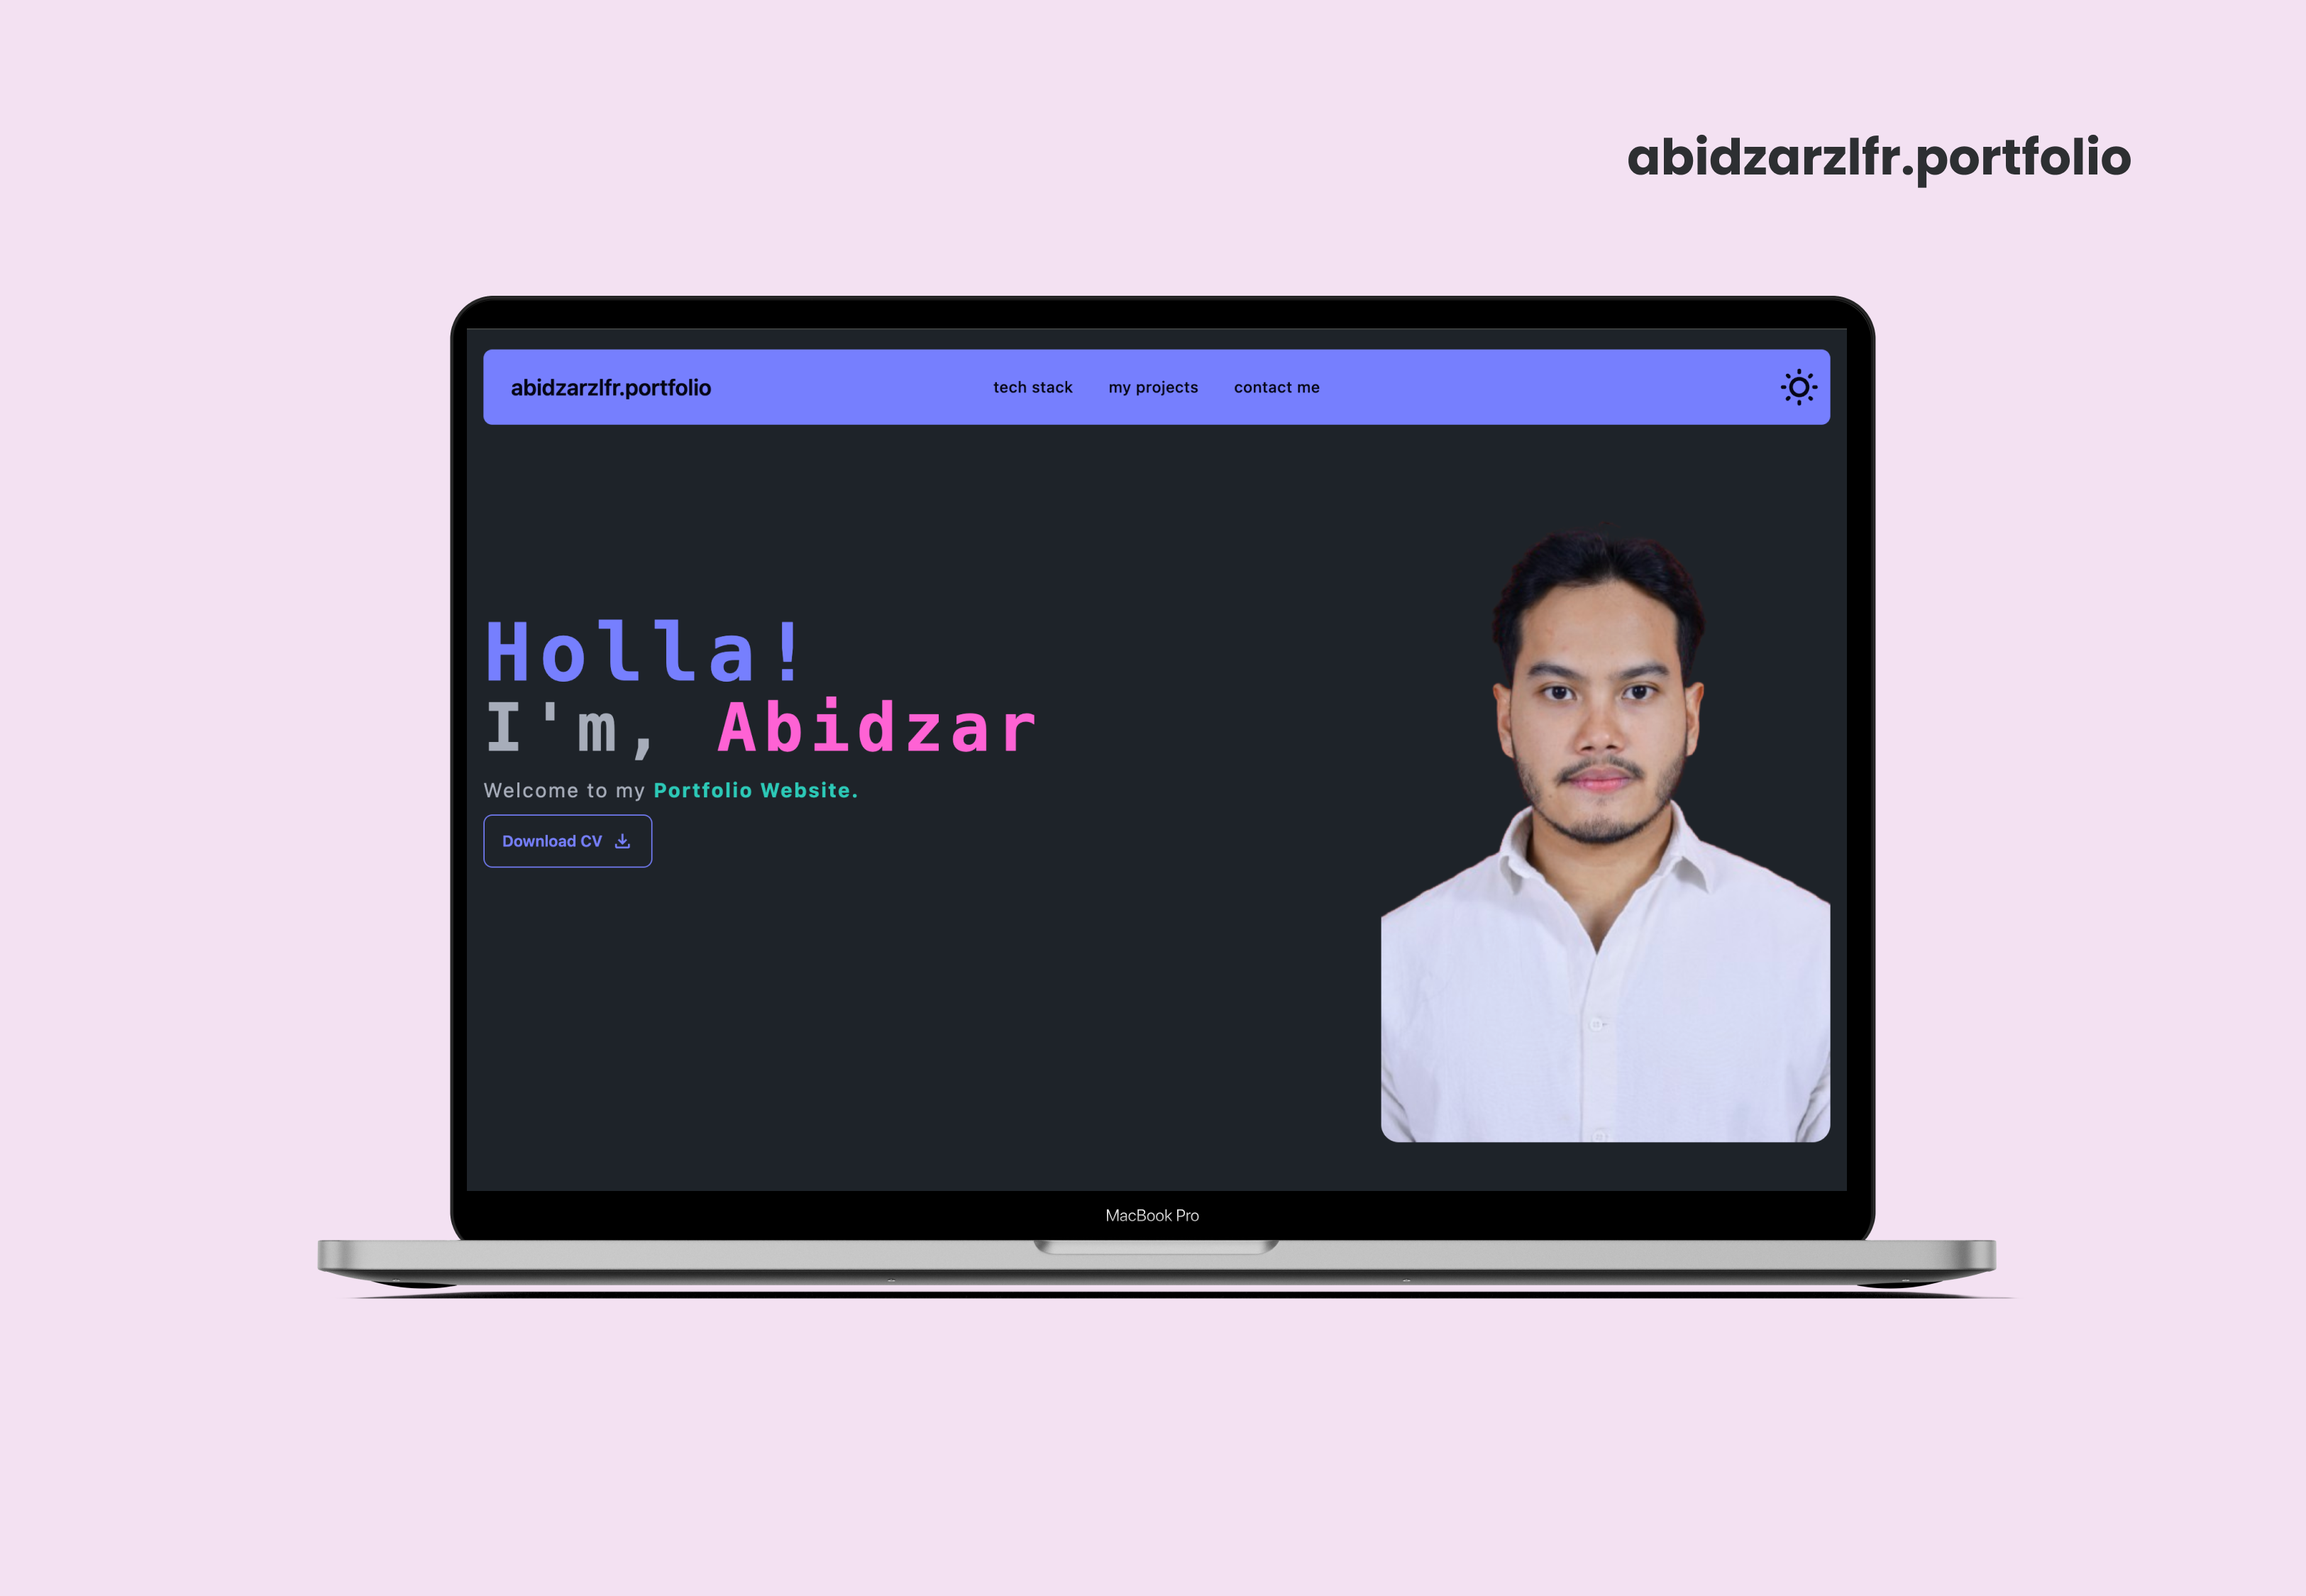
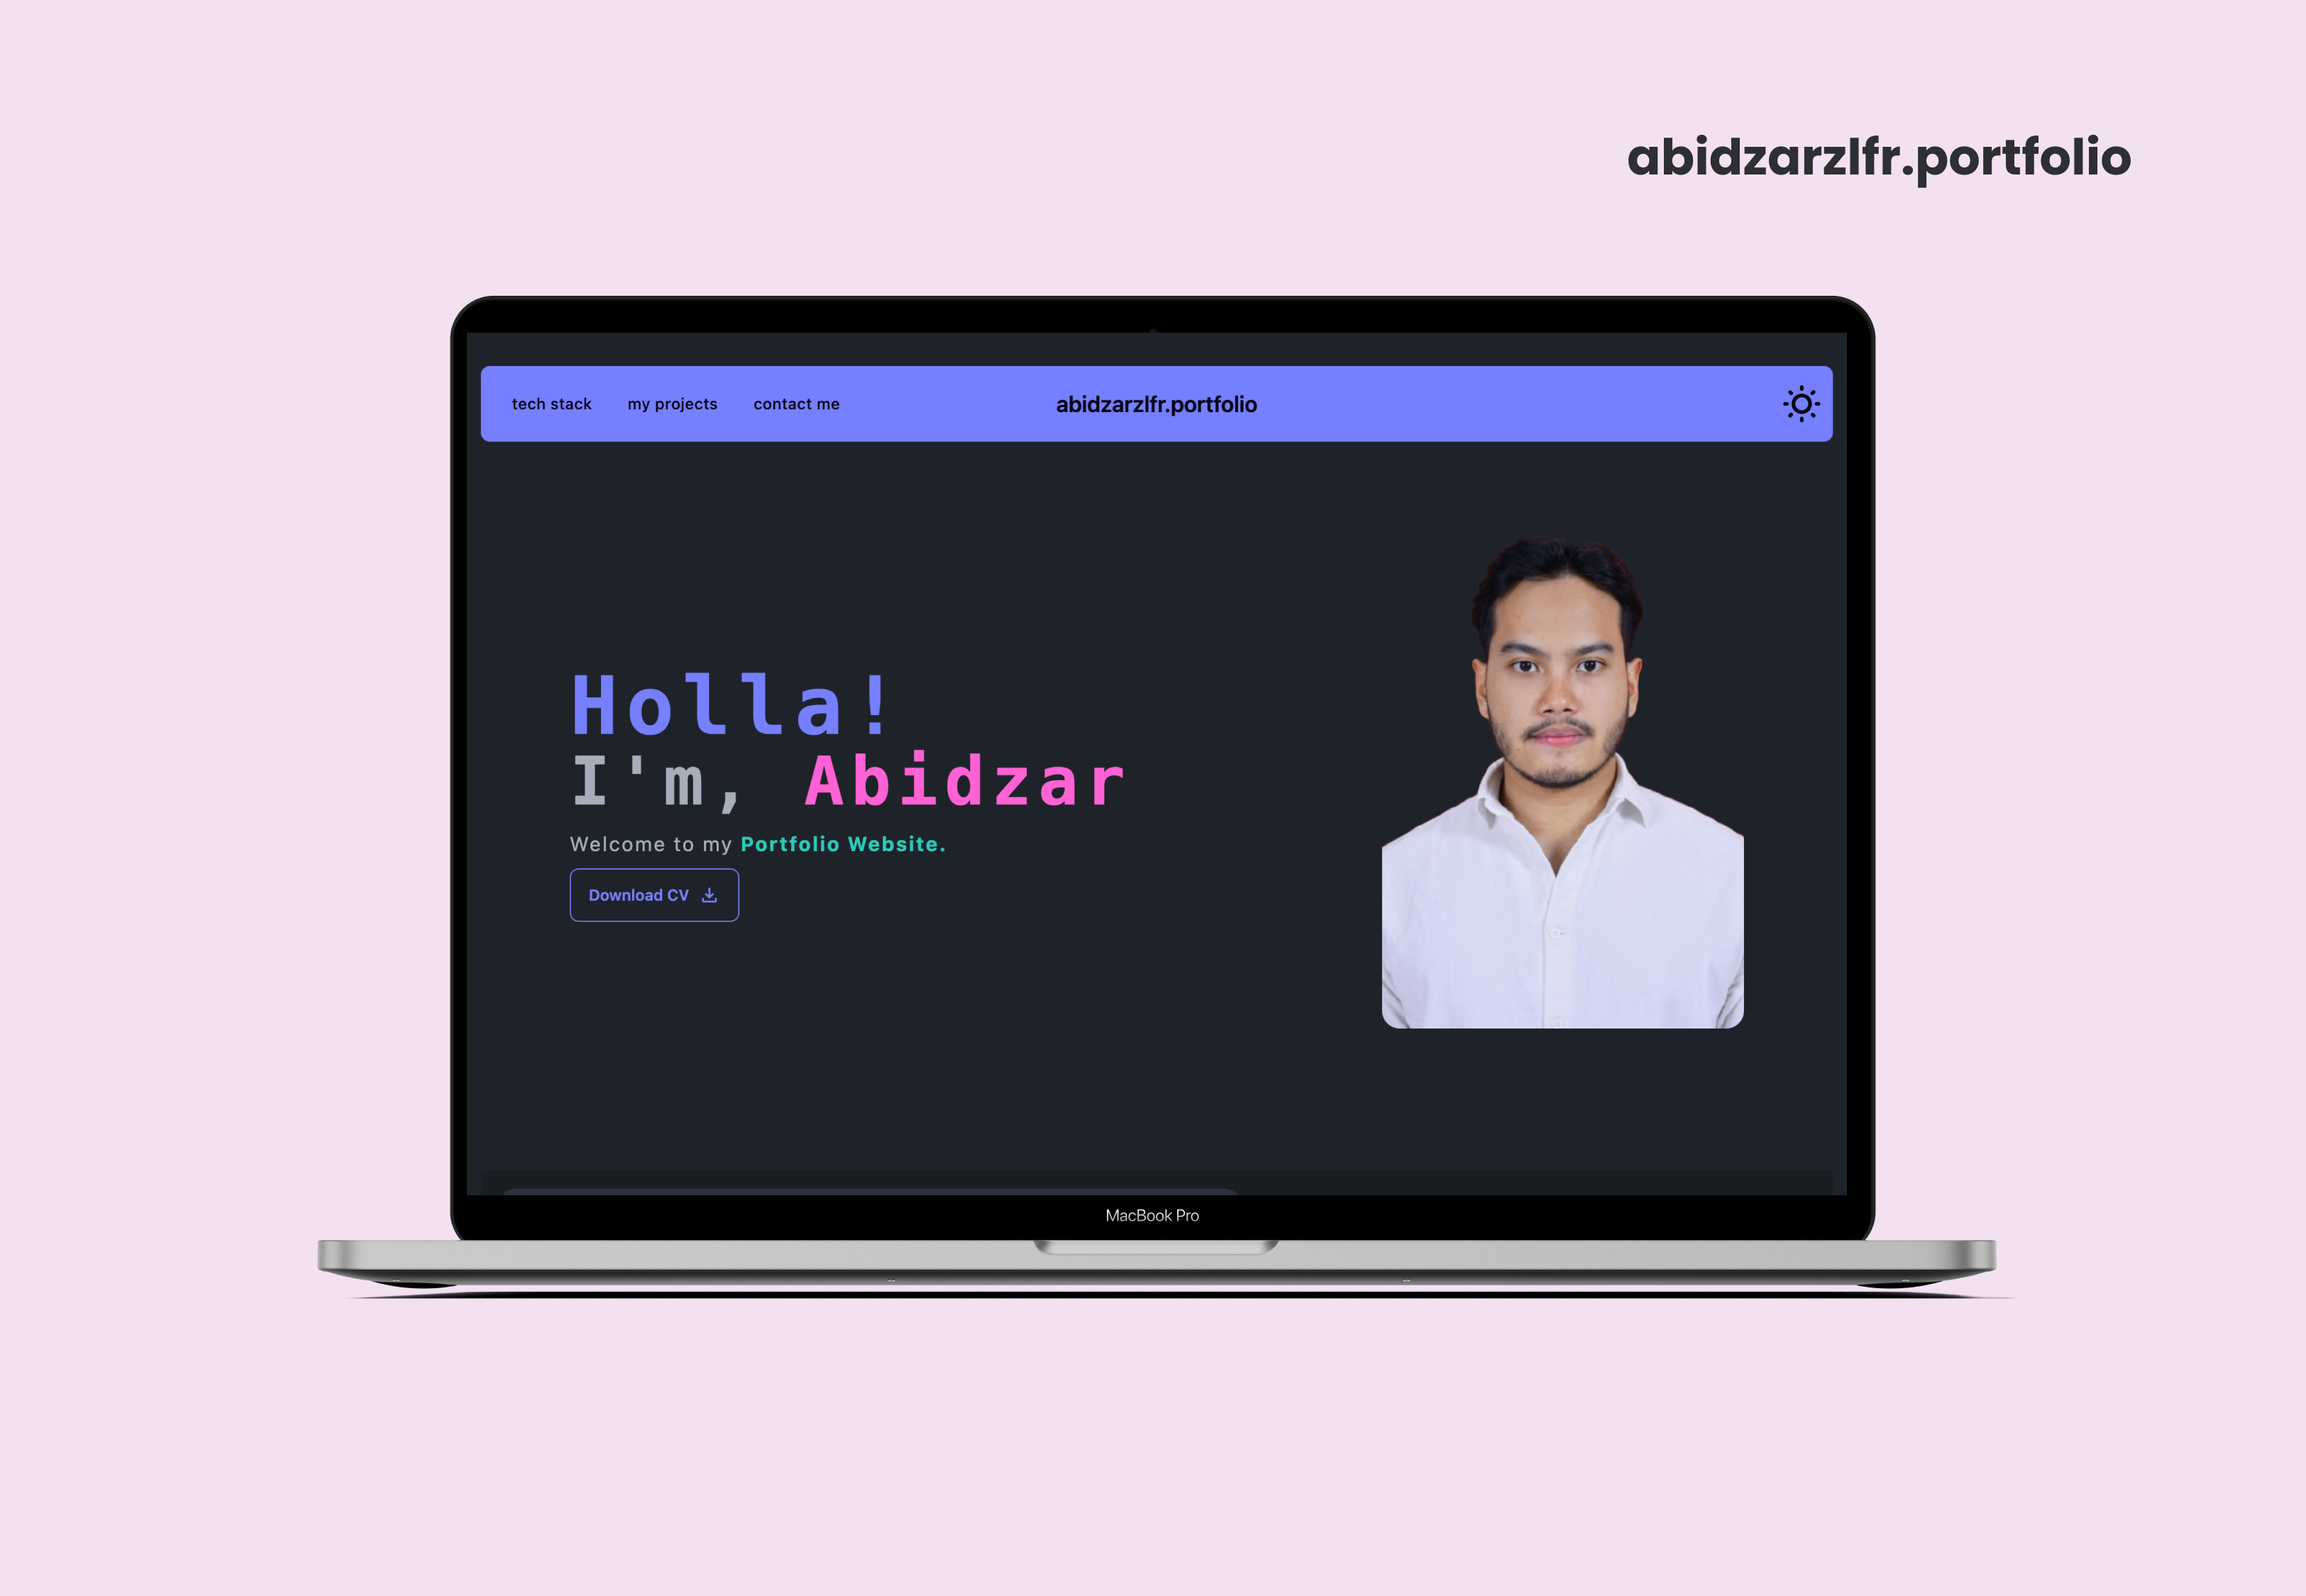
fix(pages, component, asset): fixing navbar component, about, header pages, and asset

Changed region(s): [[0.5905, 0.3422, 0.808, 0.7156], [0.1865, 0.2178, 0.808, 0.28], [0.1865, 0.3733, 0.4972, 0.5911]]

diff --git a/src/components/Navbar.jsx b/src/components/Navbar.jsx
@@ -21,7 +21,9 @@ const Navbar = () => {
 
   return (
     <div className="navbar bg-primary rounded-lg text-primary-content sticky top-4 z-50">
+      {/* Navbar Start */}
       <div className="navbar-start">
+        {/* Dropdown Start Navbar */}
         <div className="dropdown">
           <div tabIndex={0} role="button" className="btn btn-ghost lg:hidden">
             <svg
@@ -44,6 +46,9 @@ const Navbar = () => {
             className="menu menu-sm dropdown-content font-medium tracking-wide bg-primary text-primary-content rounded-box z-[1] mt-3 w-52 p-2 shadow"
           >
             <li>
+              <a>tech stack</a>
+            </li>
+            <li>
               <a>my projects</a>
             </li>
             <li>
@@ -51,10 +56,8 @@ const Navbar = () => {
             </li>
           </ul>
         </div>
-        <a className="btn btn-ghost text-xl">abidzarzlfr.portfolio</a>
-      </div>
-      <div className="navbar-center hidden lg:flex">
-        <ul className="menu menu-horizontal px-1 font-medium tracking-wide">
+        {/* Start Navbar */}
+        <ul className="menu menu-horizontal px-1 font-medium tracking-wide hidden lg:flex">
           <li>
             <a>tech stack</a>
           </li>
@@ -66,6 +69,11 @@ const Navbar = () => {
           </li>
         </ul>
       </div>
+      {/* Navbar Center */}
+      <div className="navbar-center">
+        <a className="btn btn-ghost text-xl">abidzarzlfr.portfolio</a>
+      </div>
+      {/* Navbar End */}
       <div className="navbar-end">
         <label className="swap swap-rotate">
           {/* this hidden checkbox controls the state */}

diff --git a/src/pages/About.jsx b/src/pages/About.jsx
@@ -68,11 +68,11 @@ export default function About() {
             </div>
           </div>
         </div>
-        <div className="text-start md:w-full lg:w-1/2">
-          <h1 className="text-3xl font-bold text-secondary lg:text-right sm:text-center">
+        <div className="text-start md:w-full lg:w-1/2 ps-3">
+          <h1 className="text-3xl font-bold text-secondary lg:text-left sm:text-center">
             <code>About Me</code> 🧑🏻💻
           </h1>
-          <p className="py-4 lg:text-right sm:text-center">
+          <p className="py-4 lg:text-left sm:text-center">
             <code>
               I have recently completed my bachelor's degree in Information
               Systems and have a strong interest in software engineering. My
@@ -80,7 +80,7 @@ export default function About() {
               goals and makes a positive impact on organizations or companies.
             </code>
           </p>
-          <div className="about-document flex gap-3 sm:justify-center lg:justify-end">
+          <div className="about-document flex gap-3 sm:justify-center lg:justify-start">
             <button className="btn btn-outline btn-primary">
               CV <MdOutlineFileDownload className="text-xl" />
             </button>

diff --git a/src/pages/Header.jsx b/src/pages/Header.jsx
@@ -6,7 +6,7 @@ function Header() {
   return (
     <div className="header-page mt-10">
       <div className="header-content flex justify-between">
-        <div className="header-text flex-initial flex-col py-44 lg:py-32 md:py-20 sm:py-12 text-left w-2/3">
+        <div className="header-text flex-initial flex-col lg:py-40 lg:ps-20 md:py-20 sm:py-12 text-left w-2/3">
           <p className="header-text-greeting text-7xl font-extrabold">
             <code className="tracking-widest text-primary">Holla!</code>
           </p>
@@ -22,7 +22,7 @@ function Header() {
             Download CV <MdOutlineFileDownload className="text-xl"/>
           </button>
         </div>
-        <div className="header-image flex-initial w-1/3">
+        <div className="header-image flex-initial w-1/3 lg:pe-20">
           <img className="rounded-2xl" src={profile} alt="Profile-Images" />
         </div>
       </div>
